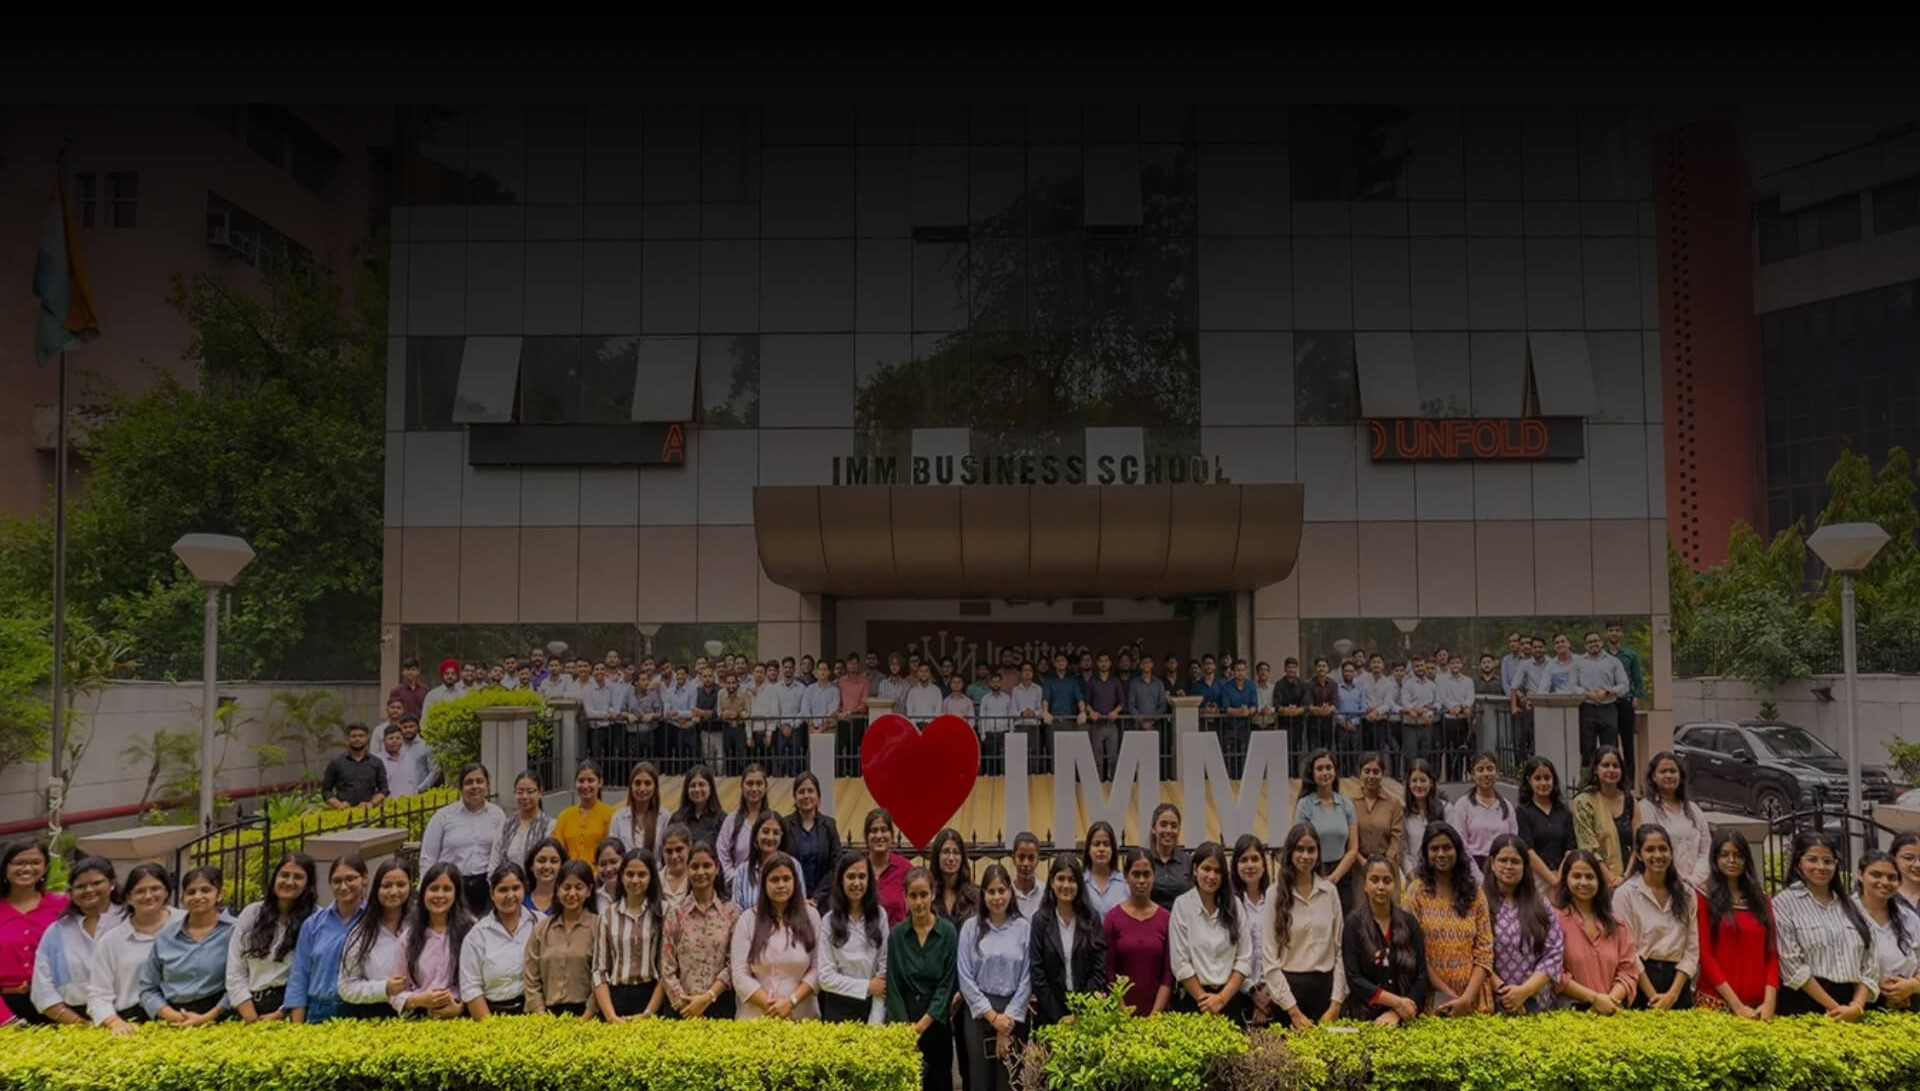
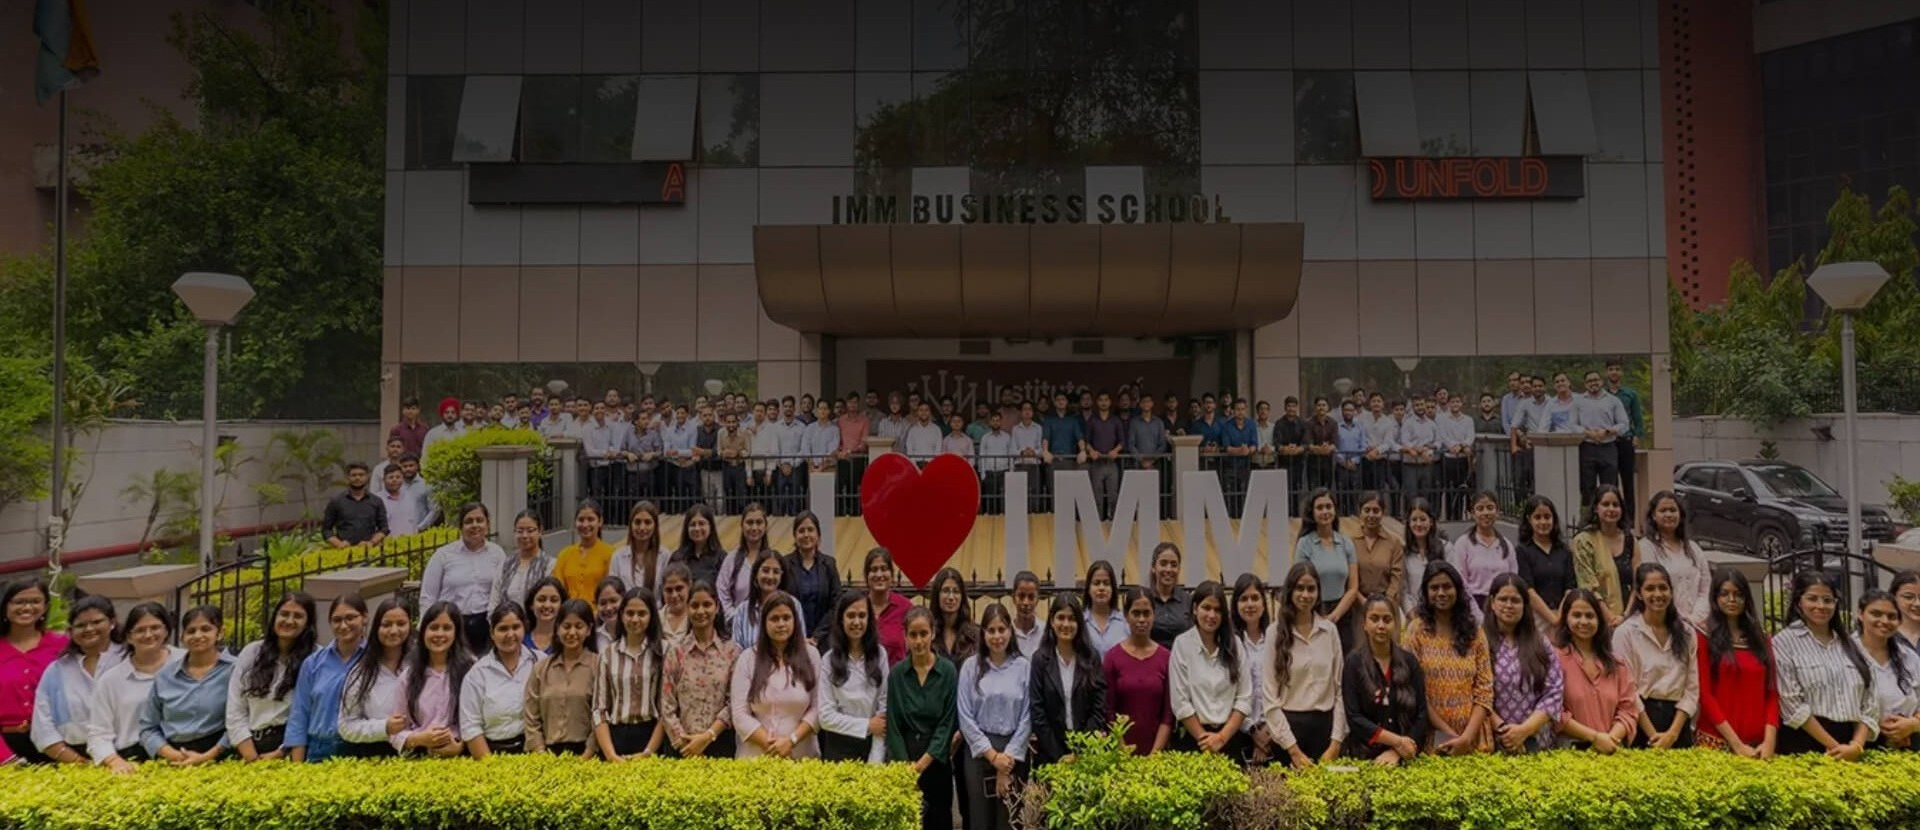
Update Hero Section with Refined Typography and Responsive Design
- Replaced hero section text with gradient-styled, concise messaging
- Adjusted hero section height for improved responsiveness
- Updated hero background image
- Refined text styling with gradient text effect

diff --git a/src/app/LandingPage/Hero.jsx b/src/app/LandingPage/Hero.jsx
@@ -1,7 +1,7 @@
 import img from "../../assets/hero.jpg";
 export default function Hero() {
     return (
-      <div className="relative sm:h-[90vh] h-[50vh] w-full">
+      <div className="relative h-[400px] sm:h-[79vh] w-full">
         {/* Background Image with Overlay */}
         <div className="absolute inset-0 ">
           <img
@@ -15,10 +15,14 @@ export default function Hero() {
         {/* Content */}
         <div className="relative z-10 flex h-full items-center px-6 md:px-16">
           <div className="max-w-4xl">
-            <h1 className="mb-4 text-4xl lg:text-7xl font-bold leading-tight text-white md:text-6xl">
-              Nurturing Next Gen
+            <h1 className="mb-4 text-4xl lg:text-7xl font-bold leading-tight md:text-6xl">
+              <span className="bg-gradient-to-r from-white via-white/80 to-white/70 bg-clip-text text-transparent">
+                Human Centered.
+              </span>
               <br />
-              Global Business Leaders
+              <span className="bg-gradient-to-r from-white via-white/80 to-white/70 bg-clip-text text-transparent">
+                Future Focused.
+              </span>
             </h1>
             
             <p className="mb-6 text-xl lg:text-3xl text-white/90 md:text-2xl">
